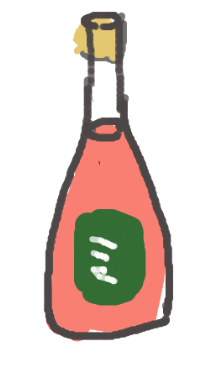
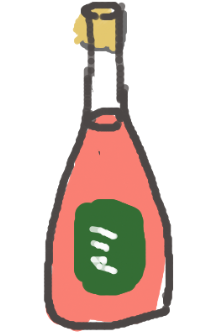
This is really final version

Changed region(s): [[0.1972, 0.2994, 0.8169, 1.0], [0.338, 0.0, 0.6197, 0.2395], [0.5915, 0.0898, 0.6197, 0.1198]]

diff --git a/www/style.css b/www/style.css
@@ -112,7 +112,7 @@ button::before {
     width: 50%;
     position: relative;
     left: 50%;
-    transform: translate(-50%, -70px);
+    transform: translate(-50%, -50px);
 }
 
 #Showcase > h3 {
@@ -125,7 +125,7 @@ button::before {
 
 #ShowChara {
     width: 50%;
-    transform: translateY(-50px);
+    transform: translateY(-30px);
     z-index: 1;
 }
 
